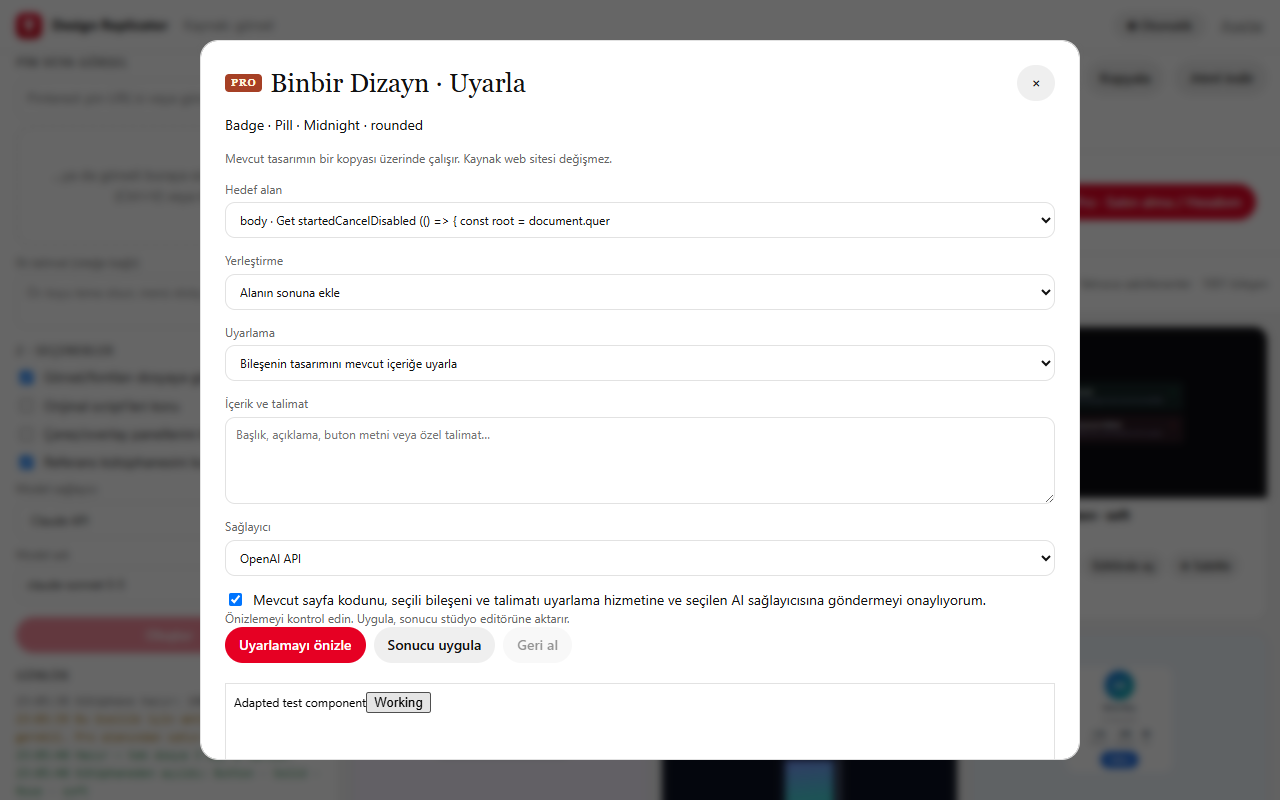
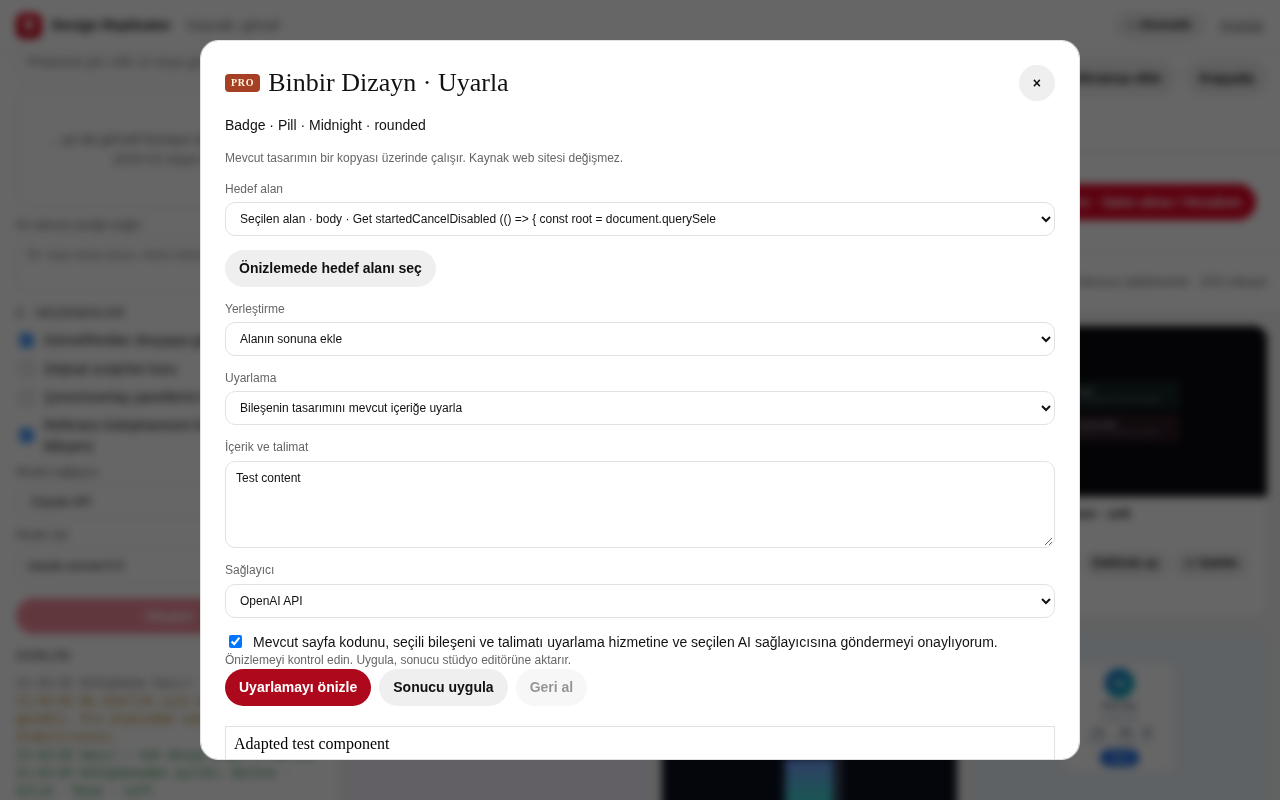
Add Pro visual placement, monthly plan catalog and validated store packaging

diff --git a/design-replicator/studio/adapt.js b/design-replicator/studio/adapt.js
@@ -5,6 +5,7 @@ export function initAdapt({ getDocument, applyDocument, log, isBusy }) {
   dialog.innerHTML = '<form method="dialog"><div class="row"><span class="pro-badge">PRO</span><h2>Binbir Dizayn · Uyarla</h2><button class="btn" value="cancel" aria-label="Kapat">×</button></div></form>' +
     '<p id="adapt-name"></p><p class="hint">Mevcut tasarımın bir kopyası üzerinde çalışır. Kaynak web sitesi değişmez.</p>' +
     '<label class="stack">Hedef alan<select id="adapt-target"></select></label>' +
+    '<button class="btn" id="adapt-pick" type="button">Önizlemede hedef alanı seç</button><iframe id="adapt-picker" sandbox="allow-scripts" title="Hedef alan seçimi" hidden></iframe>' +
     '<label class="stack">Yerleştirme<select id="adapt-place"><option value="append">Alanın sonuna ekle</option><option value="prepend">Alanın başına ekle</option><option value="replace">Seçili alanı değiştir</option></select></label>' +
     '<label class="stack">Uyarlama<select id="adapt-mode"><option value="design-to-content">Bileşenin tasarımını mevcut içeriğe uyarla</option><option value="content-to-design">İçeriğimi bileşenin tasarımına uygula</option></select></label>' +
     '<label class="stack">İçerik ve talimat<textarea id="adapt-content" rows="4" maxlength="10000" placeholder="Başlık, açıklama, buton metni veya özel talimat…"></textarea></label>' +
@@ -14,8 +15,24 @@ export function initAdapt({ getDocument, applyDocument, log, isBusy }) {
     '<iframe id="adapt-preview" sandbox="allow-scripts" title="Uyarlama önizlemesi" hidden></iframe>';
   document.body.append(dialog);
   const $ = s => dialog.querySelector(s);
-  let selected, original, candidate, applied, previewDocument, revision = 0, controller;
+  let selected, original, candidate, applied, previewDocument, revision = 0, controller, pickNonce;
   window.addEventListener('message', event => {
+    if (event.source === $('#adapt-picker').contentWindow) {
+      if (event.data?.type === 'picker-ready' && dialog.open && pickNonce) event.source.postMessage({type:'pick-document',html:original,nonce:pickNonce}, '*');
+      if (event.data?.type === 'picked-target' && event.data.nonce === pickNonce && dialog.open) {
+        const selector = event.data.selector;
+        if (typeof selector !== 'string' || selector.length > 2000) return;
+        const doc = new DOMParser().parseFromString(original, 'text/html');
+        let target; try { target = doc.querySelector(selector); } catch { return; }
+        if (!target || !doc.body.contains(target)) return;
+        const option = Object.assign(document.createElement('option'), {value:selector,textContent:'Seçilen alan · '+target.tagName.toLowerCase()+' · '+(target.textContent||'').trim().slice(0,70)});
+        const existing=[...$('#adapt-target').options].find(o=>o.value===selector);
+        if(existing)existing.textContent=option.textContent;else $('#adapt-target').append(option);
+        $('#adapt-target').value = selector; invalidate();
+        $('#adapt-picker').hidden = true; pickNonce = null; $('#adapt-status').textContent = 'Hedef alan seçildi. Yerleştirme biçimini ve içeriği belirleyin.';
+      }
+      return;
+    }
     if (event.source === $('#adapt-preview').contentWindow && event.data?.type === 'ready' && previewDocument) {
       event.source.postMessage({ type: 'render', html: previewDocument }, '*');
     }
@@ -47,7 +64,8 @@ export function initAdapt({ getDocument, applyDocument, log, isBusy }) {
     $('#adapt-preview').hidden = true;
   }
   dialog.querySelectorAll('select, textarea, input').forEach(el => el.addEventListener('input', invalidate));
-  dialog.addEventListener('close', () => { revision++; controller?.abort(); });
+  dialog.addEventListener('close', () => { revision++; controller?.abort(); pickNonce=null; $('#adapt-picker').hidden=true; });
+  $('#adapt-pick').onclick=()=>{pickNonce=crypto.randomUUID();$('#adapt-picker').hidden=false;$('#adapt-picker').src='../sandbox/target-picker.html?'+Date.now();$('#adapt-status').textContent='Sayfa önizlemesinde bileşeni eklemek istediğiniz alana tıklayın.';};
   $('#adapt-generate').onclick = async () => {
     if (!$('#adapt-consent').checked) { $('#adapt-status').textContent = 'Devam etmek için veri gönderimini onaylayın.'; return; }
     invalidate(); const current = revision; controller = new AbortController();

diff --git a/design-replicator/pro/pro.html b/design-replicator/pro/pro.html
@@ -3,11 +3,11 @@
 <body><main>
 <header><a href="../studio/studio.html">← Stüdyoya dön</a><span class="badge">PRO</span></header>
 <div class="hero"><p class="eyebrow">DESIGN REPLICATOR / BİNBİR DİZAYN</p><h1>İlhamı bul.<br><em>Kendi sitene uyarla.</em></h1><p>Binbir bileşeni mevcut tasarımına ve içeriğine taşı. Yerini seç, önizle, düzenle.</p></div>
-<div class="columns"><section class="offer"><span class="badge">PRO ÜYELİK</span><h2>Tasarımınla bütünleşen bileşenler.</h2><ul><li>Binbir Dizayn → Uyarla</li><li>Sitenin renkleri, fontları ve mevcut yapısıyla uyum</li><li>İçeriği tasarıma veya tasarımı içeriğe uygula</li><li>Hedef alan seçimi, önizleme ve geri alma</li><li>AI üretim ve ZIP dışa aktarma</li></ul><p>Fiyat, dönem ve kullanım hakkı ödeme ekranında gösterilir. API kullanımı ayrıca ücretlendirilebilir.</p><button id="buy">Pro satın al</button><button id="portal" class="secondary">Aboneliği yönet / iptal et</button></section>
+<div class="columns"><section class="offer"><span class="badge">PRO ÜYELİK</span><h2>Tasarımınla bütünleşen bileşenler.</h2><ul><li>Binbir Dizayn → Uyarla</li><li>Sitenin renkleri, fontları ve mevcut yapısıyla uyum</li><li>İçeriği tasarıma veya tasarımı içeriğe uygula</li><li>Hedef alan seçimi, önizleme ve geri alma</li><li>AI üretim ve ZIP dışa aktarma</li></ul><p>Fiyat, dönem ve kullanım hakkı ödeme ekranında gösterilir. API kullanımı ayrıca ücretlendirilebilir.</p><p id="plan" role="status">Aylık plan bilgisi alınıyor…</p><button id="buy" disabled>Pro satın al</button><button id="portal" class="secondary">Aboneliği yönet / iptal et</button></section>
 <section><h2>Hesabın</h2><p id="status" role="status" aria-live="polite">Üyelik kontrol ediliyor…</p>
 <form id="auth"><label>E-posta<input type="email" id="email" required autocomplete="email"></label><label>Parola<input type="password" id="password" required minlength="12" autocomplete="current-password"></label><p class="small">Yeni hesap için en az 12 karakter kullanın.</p><div class="actions"><button type="submit">Giriş yap</button><button type="button" id="register" class="secondary">Hesap oluştur</button></div></form>
 <div class="actions"><button id="refresh" class="secondary">Üyeliği yenile</button><button id="logout" class="secondary">Çıkış yap</button></div>
 <details><summary>Üyelik hizmeti bağlantısı</summary><label>Hizmet adresi<input type="url" id="service" placeholder="https://uyelik.siteniz.com"></label><button id="save-service" class="secondary">Bağlantıyı kaydet</button><p class="small">Yerel geliştirme: http://localhost:8787. Yayınlanan paketin hizmet adresi işletmeci tarafından yapılandırılır.</p></details></section></div>
-<section class="providers"><h2>OpenAI ve Claude bağlantısı</h2><p>ChatGPT Plus / Pro ve Claude Pro / Max abonelikleri bu eklentiye API kredisi sağlamaz. Kendi API hesabını Ayarlar'dan bağlayabilir veya Pro Uyarla için işletmecinin yapılandırdığı hizmeti kullanabilirsin.</p><a href="../options/options.html">API bağlantı ayarlarını aç →</a><p class="small">Sağlayıcı parolanızı veya tarayıcı oturum çerezlerinizi eklentiye girmeyin.</p></section>
+<section class="providers"><p id="provider-status" role="status"></p><h2>OpenAI ve Claude bağlantısı</h2><p>ChatGPT Plus / Pro ve Claude Pro / Max abonelikleri bu eklentiye API kredisi sağlamaz. Kendi API hesabını Ayarlar'dan bağlayabilir veya Pro Uyarla için işletmecinin yapılandırdığı hizmeti kullanabilirsin.</p><a href="../options/options.html">API bağlantı ayarlarını aç →</a><p class="small">Sağlayıcı parolanızı veya tarayıcı oturum çerezlerinizi eklentiye girmeyin.</p></section>
 <footer><a href="privacy.html">Gizlilik</a> · Ücretsiz: statik klon, palet, kütüphaneye göz atma ve HTML indirme. Pro: Uyarla, AI araçları ve ZIP.</footer>
 </main><script type="module" src="pro.js"></script></body></html>

diff --git a/design-replicator/pro/pro.js b/design-replicator/pro/pro.js
@@ -1,15 +1,25 @@
 import { proRequest, serviceConfig } from '../lib/pro.js';
 const $ = s => document.querySelector(s);
+try { const r=await fetch(chrome.runtime.getURL('pro/store-info.json')); if(r.ok){const info=await r.json();const u=new URL(info.privacy);if(u.protocol==='https:')document.querySelector('footer a').href=u.href;document.querySelector('footer').append(document.createTextNode(' · '+info.publisher+' · '+info.support));} } catch {}
+let billingReady=false, signedIn=false, active=false;
+const sync=()=>{ $('#buy').disabled=!billingReady || !signedIn || active; $('#portal').disabled=!signedIn; };
+async function catalog(){
+ try { const c=await proRequest('/v1/catalog'); billingReady=c.billing;
+ const price=c.price ? new Intl.NumberFormat('tr-TR',{style:'currency',currency:c.price.currency.toUpperCase()}).format(c.price.amount / (10 ** new Intl.NumberFormat('en',{style:'currency',currency:c.price.currency.toUpperCase()}).resolvedOptions().maximumFractionDigits))+' / ay' : 'Satın alma henüz açılmadı';
+ $('#plan').textContent=price+' · Ayda '+c.quota+' uyarlama'+(c.mode==='development'?' · Geliştirme ortamı':'');
+ $('#provider-status').textContent='Pro Uyarla hizmeti: '+Object.entries(c.providers).map(([p,ready])=>(p==='openai'?'OpenAI':'Claude')+' '+(ready?'hazır':'yapılandırılmamış')).join(' · ');
+ } catch {billingReady=false;$('#plan').textContent='Plan bilgisi alınamadı. Üyelik hizmeti bağlantısını kontrol edin.';} sync();
+}
 async function action(fn) {
   const buttons = [...document.querySelectorAll('button')];
   buttons.forEach(b => b.disabled = true);
   try { await fn(); } catch (e) { $('#status').textContent = e.message; }
-  finally { buttons.forEach(b => b.disabled = false); }
+  finally { buttons.forEach(b => b.disabled = false); sync(); }
 }
 async function refresh() {
   const state = await proRequest('/v1/me');
   $('#status').textContent = state.pro ? state.email + ' · Pro aktif' : (state.email ? state.email + ' · Ücretsiz hesap' : 'Satın almak için giriş yapın veya hesap oluşturun.');
-  $('#auth').hidden = !!state.email;
+  signedIn=!!state.email; active=!!state.pro; $('#auth').hidden = signedIn; sync();
 }
 async function authenticate(register) {
   if (!$('#auth').reportValidity()) return;
@@ -22,7 +32,7 @@ async function authenticate(register) {
 }
 $('#auth').addEventListener('submit', e => { e.preventDefault(); authenticate(false); });
 $('#register').onclick = () => authenticate(true);
-$('#refresh').onclick = () => action(refresh);
+$('#refresh').onclick = () => action(async()=>{await catalog();await refresh();});
 $('#logout').onclick = () => action(async () => { try { await proRequest('/v1/auth/logout', {}); } finally { await chrome.storage.local.remove('proSession'); } await refresh(); });
 $('#save-service').onclick = () => action(async () => {
   const value = $('#service').value.trim();
@@ -30,7 +40,7 @@ $('#save-service').onclick = () => action(async () => {
   await chrome.storage.local.set({ proService: value });
   try { await serviceConfig(); } catch (e) { await chrome.storage.local.set({ proService: previous.proService || '' }); throw e; }
   await chrome.storage.local.remove('proSession');
-  await refresh();
+  await catalog(); await refresh();
 });
 async function openBilling(path) {
   await action(async () => {
@@ -43,4 +53,4 @@ async function openBilling(path) {
 $('#buy').onclick = () => openBilling('/v1/billing/checkout');
 $('#portal').onclick = () => openBilling('/v1/billing/portal');
 $('#service').value = await serviceConfig();
-action(refresh);
+action(async()=>{await catalog();await refresh();});

diff --git a/design-replicator/sandbox/target-picker.js b/design-replicator/sandbox/target-picker.js
@@ -1,0 +1,42 @@
+// Original scripts, handlers and navigations never run in the visual target picker.
+let nonce = '', selected = null;
+function path(element) {
+  if (element.tagName === 'BODY') return 'body';
+  const parts=[];
+  while(element && element.tagName !== 'HTML') {
+    const tag=element.tagName.toLowerCase();
+    const same=[...element.parentElement.children].filter(e=>e.tagName===element.tagName);
+    parts.unshift(tag+':nth-of-type('+(same.indexOf(element)+1)+')');element=element.parentElement;
+  }
+  return parts.join(' > ');
+}
+window.addEventListener('message', event=>{
+  if(event.source!==parent||event.data?.type!=='pick-document'||typeof event.data.html!=='string'||typeof event.data.nonce!=='string')return;
+  nonce=event.data.nonce;
+  const parsed=new DOMParser().parseFromString(event.data.html,'text/html');
+  parsed.querySelectorAll('script,iframe,frame,object,embed,base,meta,link[rel="import"],template').forEach(e=>e.remove());
+  parsed.querySelectorAll('*').forEach(e=>{
+    for(const attr of [...e.attributes]) if(/^on/i.test(attr.name)||['srcdoc','action','formaction','autofocus','autoplay','contenteditable'].includes(attr.name)||/^(?:javascript|vbscript):/i.test(attr.value.trim()))e.removeAttribute(attr.name);
+  });
+  // Styles may be retained; source CSP and executable nodes cannot replace our controls.
+  for(const old of document.head.querySelectorAll('[data-source-style]'))old.remove();
+  for(const style of parsed.head.querySelectorAll('style,link[rel="stylesheet"]')){
+    const copy=document.importNode(style,true);copy.dataset.sourceStyle='';document.head.append(copy);
+  }
+  document.body.replaceChildren(...[...parsed.body.childNodes].map(n=>document.importNode(n,true)));
+  selected=null;
+});
+document.addEventListener('pointermove', event=>{
+  const next=event.target.closest?.('main,header,footer,nav,section,article,aside,div,p,h1,h2,h3,ul,ol,form,body');
+  if(next===selected)return;
+  if(selected)selected.style.outline='';selected=next;
+  if(selected)selected.style.outline='3px solid #16b995';
+},true);
+document.addEventListener('click',event=>{
+  event.preventDefault();event.stopImmediatePropagation();
+  if(!nonce)return;
+  const target=event.target.closest?.('main,header,footer,nav,section,article,aside,div,p,h1,h2,h3,ul,ol,form,body')||document.body;
+  parent.postMessage({type:'picked-target',nonce,selector:path(target),label:target.tagName.toLowerCase()+' · '+(target.textContent||'').trim().slice(0,70)},'*');
+},true);
+document.addEventListener('submit',event=>event.preventDefault(),true);
+parent.postMessage({type:'picker-ready'},'*');

diff --git a/design-replicator/lib/pro.js b/design-replicator/lib/pro.js
@@ -1,7 +1,8 @@
+import { DEFAULT_PRO_SERVICE } from './service-default.js';
 // Paid access is always checked online. A local flag never grants a subscription.
 export async function serviceConfig() {
   const { proService = '' } = await chrome.storage.local.get('proService');
-  const u = new URL(proService || 'http://localhost:8787');
+  const u = new URL(proService || DEFAULT_PRO_SERVICE || 'http://localhost:8787');
   if (u.protocol !== 'https:' && !(u.protocol === 'http:' && ['localhost', '127.0.0.1'].includes(u.hostname))) throw new Error('Üyelik hizmeti HTTPS kullanmalı.');
   if (u.username || u.password || u.search || u.hash) throw new Error('Geçersiz hizmet adresi.');
   return u.origin;

diff --git a/design-replicator/studio/studio.css b/design-replicator/studio/studio.css
@@ -123,3 +123,5 @@ input[type=text], input:not([type]), select, textarea { width:100%; padding:8px 
 .ed-problem-location { flex:0 0 210px; color:var(--mut); }
 .ed-tools button:focus-visible, .ed-problem:focus-visible, .ed-problems-toggle:focus-visible { outline:2px solid #478ed1; outline-offset:-2px; }
 @media(max-width:700px) { .ed-problem { flex-direction:column; gap:2px; } .ed-problem-location { flex-basis:auto; } }
+
+#adapt-picker{height:420px;border:2px solid #16b995}#adapt-picker[hidden]{display:none}

diff --git a/design-replicator/sandbox/target-picker.html b/design-replicator/sandbox/target-picker.html
@@ -1,0 +1,1 @@
+<!doctype html><html lang="tr"><head><meta charset="utf-8"><meta http-equiv="Content-Security-Policy" content="default-src 'none'; script-src 'self'; style-src 'unsafe-inline' https:; img-src data: https:; font-src data: https:; connect-src 'none'; form-action 'none'; base-uri 'none'"><title>Hedef alan seçimi</title></head><body><p>Hedef sayfa yükleniyor…</p><script src="target-picker.js"></script></body></html>

diff --git a/design-replicator/lib/service-default.js b/design-replicator/lib/service-default.js
@@ -1,0 +1,2 @@
+// The store packager replaces this with the operator's verified HTTPS endpoint.
+export const DEFAULT_PRO_SERVICE = '';

diff --git a/design-replicator/tools/release.py b/design-replicator/tools/release.py
@@ -9,7 +9,33 @@ Yapilanlar:
      release/design-replicator-<surum>-source.zip (tools/ dahil)
   5. SHA256SUMS.txt + RELEASE-NOTES-<surum>.md
 """
-import hashlib, json, os, re, subprocess, sys, zipfile
+import argparse, hashlib, json, os, re, subprocess, sys, zipfile
+from urllib.parse import urlparse
+from urllib.request import urlopen
+
+parser = argparse.ArgumentParser(description='Build a development ZIP or verify and build an operator-configured store ZIP.')
+parser.add_argument('--store', action='store_true')
+parser.add_argument('--service-url', default='')
+parser.add_argument('--privacy-url', default='')
+parser.add_argument('--support-email', default='')
+parser.add_argument('--publisher', default='')
+args = parser.parse_args()
+if args.service_url:
+    u = urlparse(args.service_url)
+    if u.scheme != 'https' or not u.hostname or u.username or u.password or u.query or u.fragment or u.path not in ('', '/'):
+        parser.error('--service-url must be an HTTPS origin without credentials, path, query or fragment')
+    args.service_url = args.service_url.rstrip('/')
+if args.store:
+    privacy = urlparse(args.privacy_url)
+    if not args.service_url or privacy.scheme != 'https' or not privacy.hostname or privacy.username or privacy.password or not re.fullmatch(r'[^\s@]+@[^\s@]+\.[^\s@]+', args.support_email) or not args.publisher.strip():
+        parser.error('Store packaging requires --service-url, --privacy-url, --support-email and --publisher')
+    try:
+        with urlopen(args.service_url + '/v1/catalog', timeout=20) as response:
+            catalog = json.loads(response.read(100000))
+        if catalog.get('mode') != 'production' or not catalog.get('billing') or not any(catalog.get('providers', {}).values()):
+            parser.error('Production billing and at least one AI provider must be ready')
+    except Exception as error:
+        parser.error('Service readiness could not be verified: ' + type(error).__name__)
 
 ROOT = os.path.abspath(os.path.join(os.path.dirname(__file__), '..'))
 OUT = os.path.join(ROOT, 'release')
@@ -101,7 +127,12 @@ def build(name, files):
     path = os.path.join(OUT, name)
     with zipfile.ZipFile(path, 'w', zipfile.ZIP_DEFLATED, compresslevel=9) as z:
         for src, dst in files:
-            z.write(os.path.join(ROOT, src), dst)
+            if dst == 'lib/service-default.js' and args.service_url:
+                z.writestr(dst, 'export const DEFAULT_PRO_SERVICE = ' + json.dumps(args.service_url) + ';\n')
+            else:
+                z.write(os.path.join(ROOT, src), dst)
+        if args.store:
+            z.writestr('pro/store-info.json', json.dumps({'publisher':args.publisher,'privacy':args.privacy_url,'support':args.support_email},ensure_ascii=False))
     return path
 
 zip_rt = build('design-replicator-%s.zip' % version, runtime)

diff --git a/design-replicator/COMMERCIAL-SETUP.md b/design-replicator/COMMERCIAL-SETUP.md
@@ -64,3 +64,10 @@ Chrome ödeme politikası:
 https://developer.chrome.com/docs/webstore/program-policies/accepting-payment
 Stripe Checkout:
 https://docs.stripe.com/api/checkout/sessions/create
+
+## 1.4 mağaza paketi
+Geliştirme ZIP'i: `python tools/release.py`. Canlı hizmet hazır olduğunda:
+```sh
+python tools/release.py --store --service-url https://uyelik.example.com --privacy-url https://example.com/privacy --support-email destek@example.com --publisher "İşletme Adı"
+```
+Adresler örnektir; gerçek işletme bilgileri gerekir. Araç HTTPS hizmetindeki `/v1/catalog` üzerinden production, aylık ödeme ve en az bir AI sağlayıcısı hazırlığını doğrular; eksik yapılandırmada mağaza paketi üretmez. ZIP içine yalnız kamuya açık hizmet adresi ve mağaza bilgileri yerleştirilir, anahtarlar dahil edilmez. Chrome mağazasına yükleme, ödeme işletme hesabı ve mağaza incelemesi ayrıca tamamlanır. Pro alanı yapılandırılmış fiyatı/kotayı ve sağlayıcı durumunu gösterir.

diff --git a/design-replicator/CHANGELOG.md b/design-replicator/CHANGELOG.md
@@ -1,5 +1,12 @@
 # Değişiklik günlüğü
 
+## 1.4.0 — 2026-10-23
+- Pro Uyarla panelinde sayfa önizlemesinden tıklayarak hedef alan seçimi.
+- Aylık ücretli fiyat, kota ve yapılandırılmış AI sağlayıcıları için sunucu kataloğu.
+- Geçerli aylık ücretli fiyat olmadan Checkout açılmaz.
+- İşletmeci HTTPS hizmeti ve mağaza bilgilerini ZIP içine yerleştiren doğrulamalı mağaza paketleme seçeneği.
+- ChatGPT / Claude bireysel aboneliklerinin API kredisi olmadığı açıkça belirtilir.
+
 ## 1.3.0 — 2026-10-20
 - Gelişmiş editör araç çubuğu: IntelliSense, parametre yardımı, Bul/Değiştir, komutlar, hızlı düzeltme, geri al/yinele.
 - HTML'deki öğe türlerini JavaScript IntelliSense'e aktaran yerel tür tanımları.
